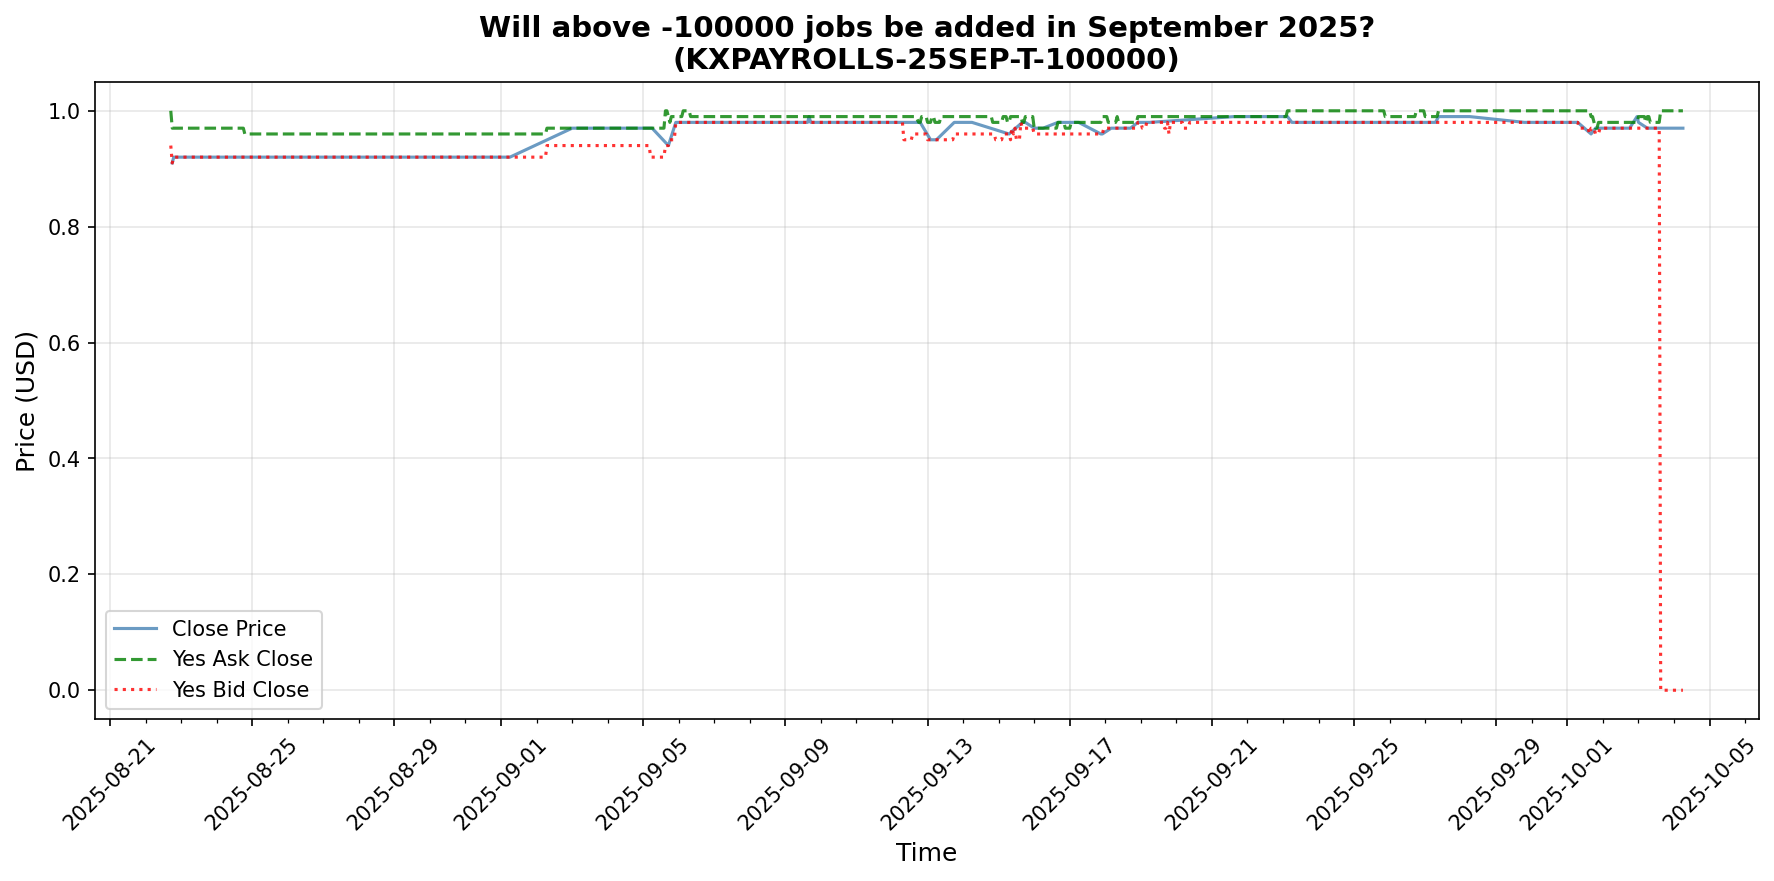
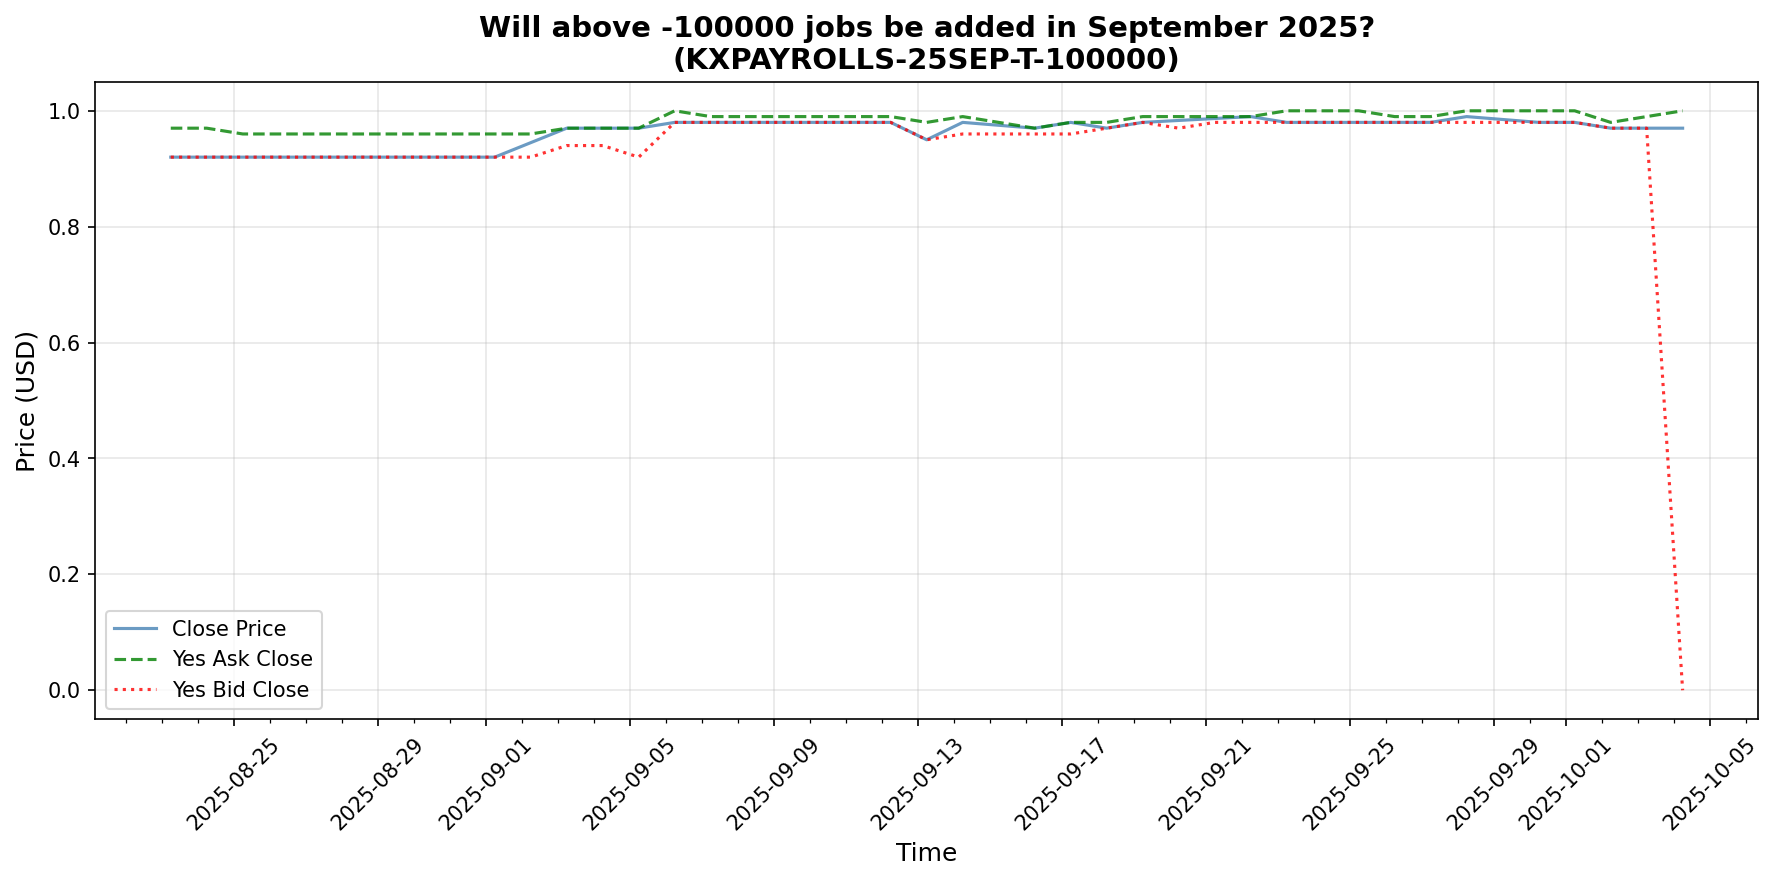
changes

diff --git a/6_generate_apy_charts.py b/6_generate_apy_charts.py
@@ -147,10 +147,9 @@ def plot_apy(market, save_path=None):
 		print(f"No valid timestamps found for {ticker}")
 		return
 	
-	# Calculate APY for all three price types
+	# Calculate APY for close and ask price types
 	apy_times_close, apy_values_close = calculate_apy_over_time(market, price_type='close')
 	apy_times_ask, apy_values_ask = calculate_apy_over_time(market, price_type='yes_ask')
-	apy_times_bid, apy_values_bid = calculate_apy_over_time(market, price_type='yes_bid')
 	
 	# Create figure with two subplots stacked vertically
 	fig, (ax1, ax2) = plt.subplots(2, 1, figsize=(12, 10), sharex=True)
@@ -176,15 +175,12 @@ def plot_apy(market, save_path=None):
 	ax1.grid(True, alpha=0.3)
 	ax1.legend()
 	
-	# Bottom subplot: APY over time (3 lines)
+	# Bottom subplot: APY over time (2 lines)
 	if apy_times_close and apy_values_close:
 		ax2.plot(apy_times_close, apy_values_close, label="APY (Close)", linewidth=1.5, alpha=0.8, color='steelblue')
 	
 	if apy_times_ask and apy_values_ask:
 		ax2.plot(apy_times_ask, apy_values_ask, label="APY (Yes Ask)", linewidth=1.5, alpha=0.8, color='green', linestyle='--')
-	
-	if apy_times_bid and apy_values_bid:
-		ax2.plot(apy_times_bid, apy_values_bid, label="APY (Yes Bid)", linewidth=1.5, alpha=0.8, color='red', linestyle=':')
 	
 	ax2.legend()
 	
@@ -216,22 +212,58 @@ def plot_all_apy_summary(markets, save_path=None):
 	"""Create a summary plot showing APY over time for all markets"""
 	fig, ax = plt.subplots(figsize=(14, 8))
 	
+	# Collect all market APY data (using ask price)
+	market_data = []
 	valid_count = 0
 	for market in markets:
 		ticker = market.get("ticker", "Unknown")
-		times, apy_values = calculate_apy_over_time(market, price_type='close')
+		times, apy_values = calculate_apy_over_time(market, price_type='yes_ask')
 		
 		if times is not None and apy_values is not None:
 			ax.plot(times, apy_values, alpha=0.5, linewidth=1, label=ticker)
+			market_data.append((times, apy_values))
 			valid_count += 1
 	
 	if valid_count == 0:
 		print("No valid APY data to plot")
 		return
 	
+	# Calculate lowest market APY at each time point
+	# Collect all unique timestamps
+	all_timestamps = set()
+	for times, _ in market_data:
+		all_timestamps.update(times)
+	
+	all_timestamps = sorted(all_timestamps)
+	
+	# For each timestamp, collect APY values from all markets that have data at that time
+	lowest_market_times = []
+	lowest_market_values = []
+	
+	for ts in all_timestamps:
+		apy_at_ts = []
+		for times, apy_values in market_data:
+			# Find the closest timestamp in this market's data
+			if ts in times:
+				idx = times.index(ts)
+				apy_at_ts.append(apy_values[idx])
+		
+		if len(apy_at_ts) >= 1:
+			# Take the lowest value
+			lowest_apy = min(apy_at_ts)
+			lowest_market_times.append(ts)
+			lowest_market_values.append(lowest_apy)
+	
+	# Plot the lowest market line (bolder)
+	lowest_line = None
+	if lowest_market_times and lowest_market_values:
+		lowest_line, = ax.plot(lowest_market_times, lowest_market_values, 
+				label="Lowest Market", 
+				linewidth=3, alpha=0.9, color='darkred', linestyle='-')
+	
 	ax.set_xlabel("Time", fontsize=12)
 	ax.set_ylabel("APY (%)", fontsize=12)
-	ax.set_title("APY Over Time for All Markets\n(Assuming resolution at $1.00)", 
+	ax.set_title("APY Over Time for All Markets (Ask Price)\n(Assuming resolution at $1.00)", 
 				 fontsize=14, fontweight="bold")
 	ax.set_ylim(0, 100)  # Focus on 0-100% APY region
 	ax.grid(True, alpha=0.3)
@@ -245,8 +277,13 @@ def plot_all_apy_summary(markets, save_path=None):
 	ax.axhline(y=0, color='black', linestyle='--', linewidth=0.5, alpha=0.5)
 	
 	# Don't show legend if too many markets (would be cluttered)
+	# But always show the lowest market line legend
 	if valid_count <= 10:
 		ax.legend(bbox_to_anchor=(1.05, 1), loc='upper left', fontsize=8)
+	elif lowest_line is not None:
+		# Show only the lowest market line legend if too many markets
+		ax.legend(handles=[lowest_line], labels=["Lowest Market"], 
+				 bbox_to_anchor=(1.05, 1), loc='upper left', fontsize=10)
 	
 	plt.tight_layout()
 	

diff --git a/1_fetch_markets.py b/1_fetch_markets.py
@@ -79,11 +79,11 @@ def main():
 	
 	# Fetch 10k closed markets and write in batches
 	print("Fetching closed markets...")
-	closed_markets = fetch_markets_by_status("closed", max_markets=10000, collection=col, batch_size=1000)
+	closed_markets = fetch_markets_by_status("closed", max_markets=100000, collection=col, batch_size=1000)
 	
 	# Fetch 10k settled markets and write in batches
 	print("\nFetching settled markets...")
-	settled_markets = fetch_markets_by_status("settled", max_markets=10000, collection=col, batch_size=1000)
+	settled_markets = fetch_markets_by_status("settled", max_markets=100000, collection=col, batch_size=1000)
 	
 	# Combine both for final count
 	all_markets = closed_markets + settled_markets

diff --git a/4_filter_for_tail_end_candlesticks.py b/4_filter_for_tail_end_candlesticks.py
@@ -74,7 +74,7 @@ def main():
 		return
 	
 	# Filter markets: price >= threshold for the last N days
-	THRESHOLD = 0.95  # 95%
+	THRESHOLD = 0.94  # 95%
 	MIN_DURATION_DAYS = 7  # Last 7 days
 	
 	filtered_markets = []
